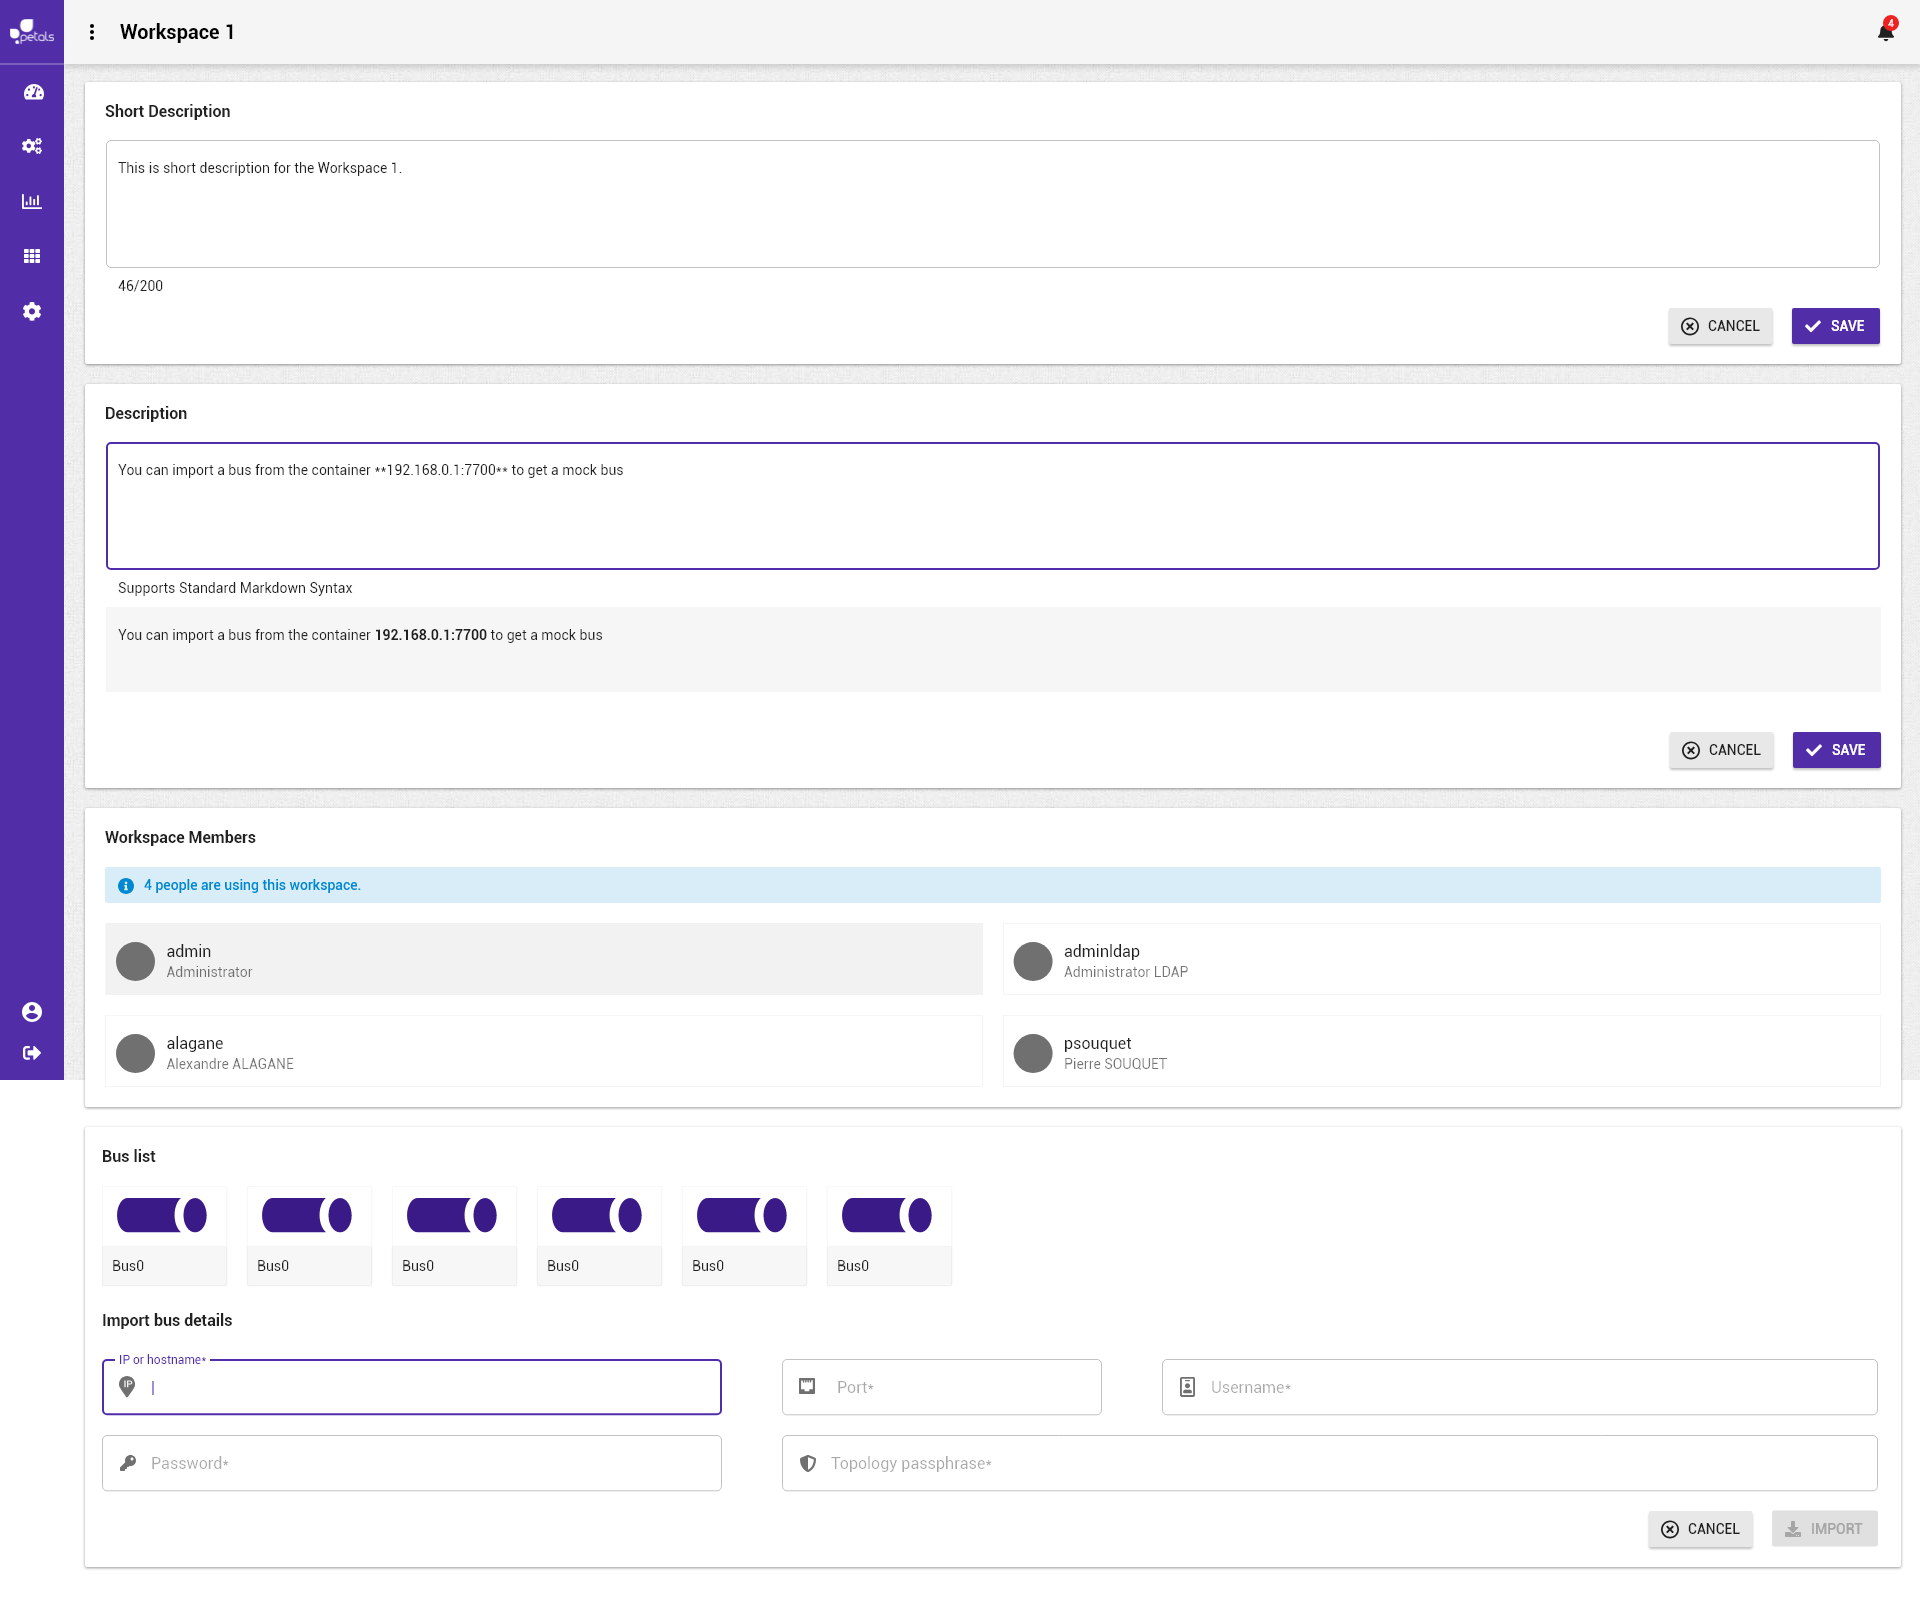
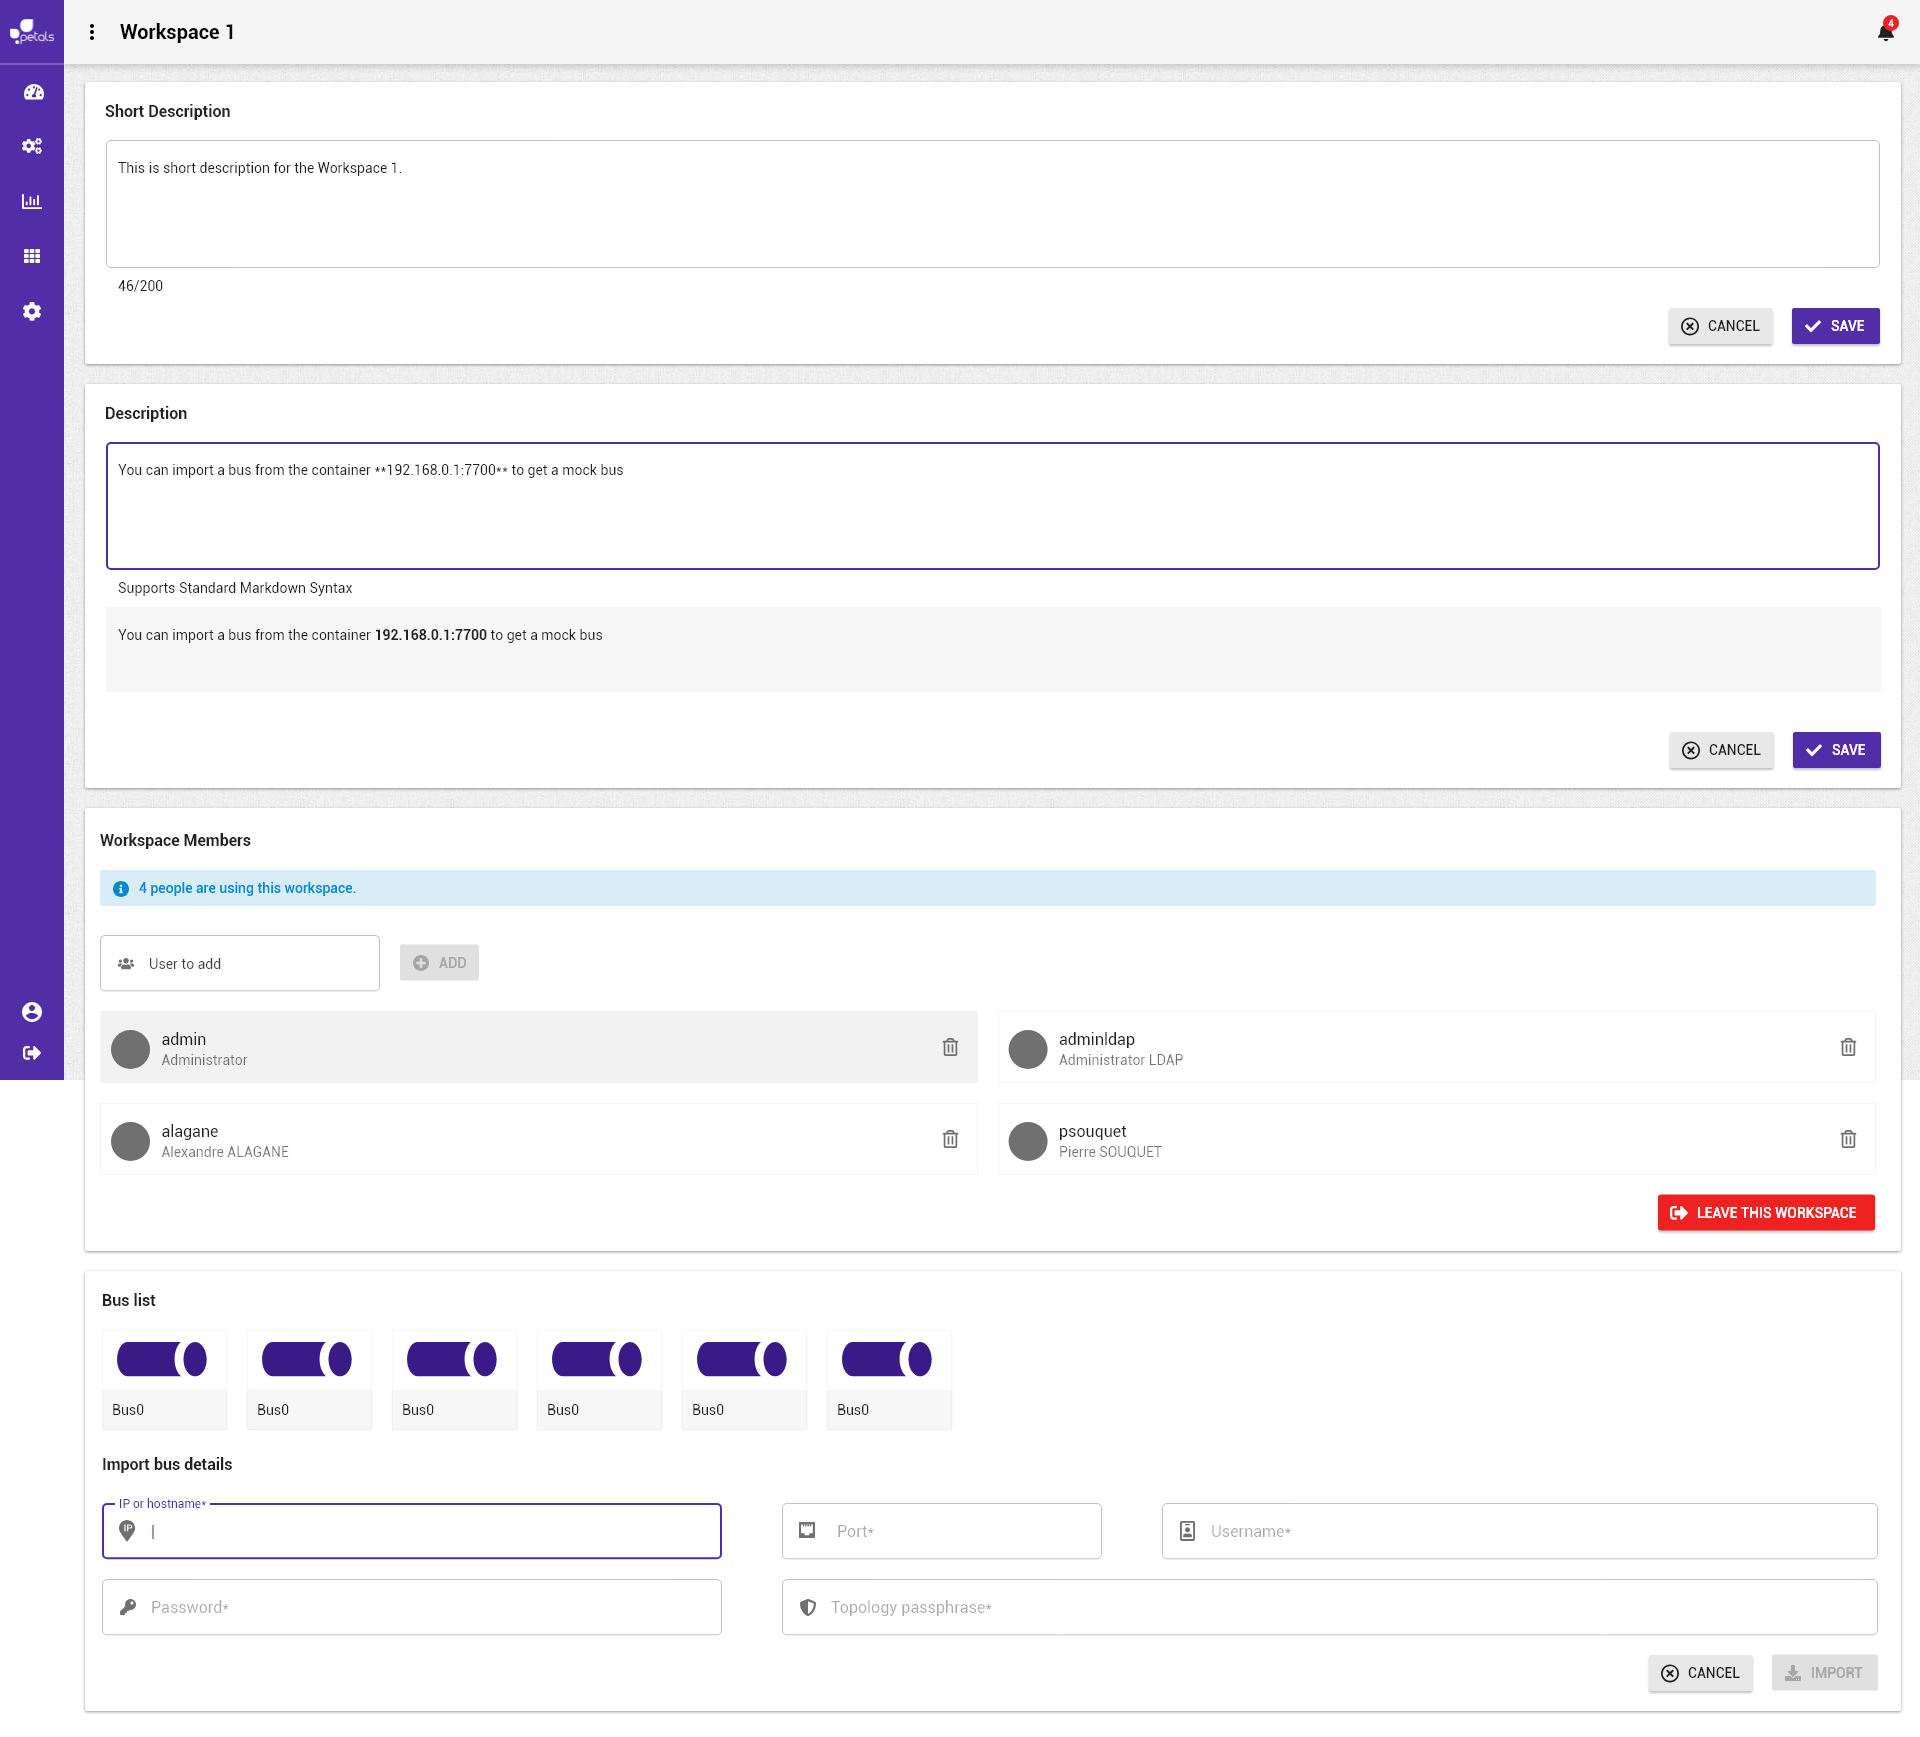
GitBook: [master] one page and 2 assets modified

diff --git a/taches/espace-de-travail/visualiser-un-espace-de-travail.md b/taches/espace-de-travail/visualiser-un-espace-de-travail.md
@@ -31,7 +31,7 @@ Dans un scénario, on ne mentionne pas les actions techniques \(pas de clic, de 
 
 ![Page d&apos;accueil d&apos;un espace de travail ouvert](../../.gitbook/assets/workspace-overview%20%281%29.png)
 
-![Page d&apos;accueil d&apos;un espace de travail ouvert \(&#xE9;dition\)](../../.gitbook/assets/workspace-overview-edit.png)
+![Page d&apos;accueil d&apos;un espace de travail ouvert \(&#xE9;dition\)](../../.gitbook/assets/workspace-overview-edit%20%281%29.png)
 
 ![Menu d&#xE9;roulant accessible depuis un espace de travail](../../.gitbook/assets/workspace-overview-menu.png)
 
